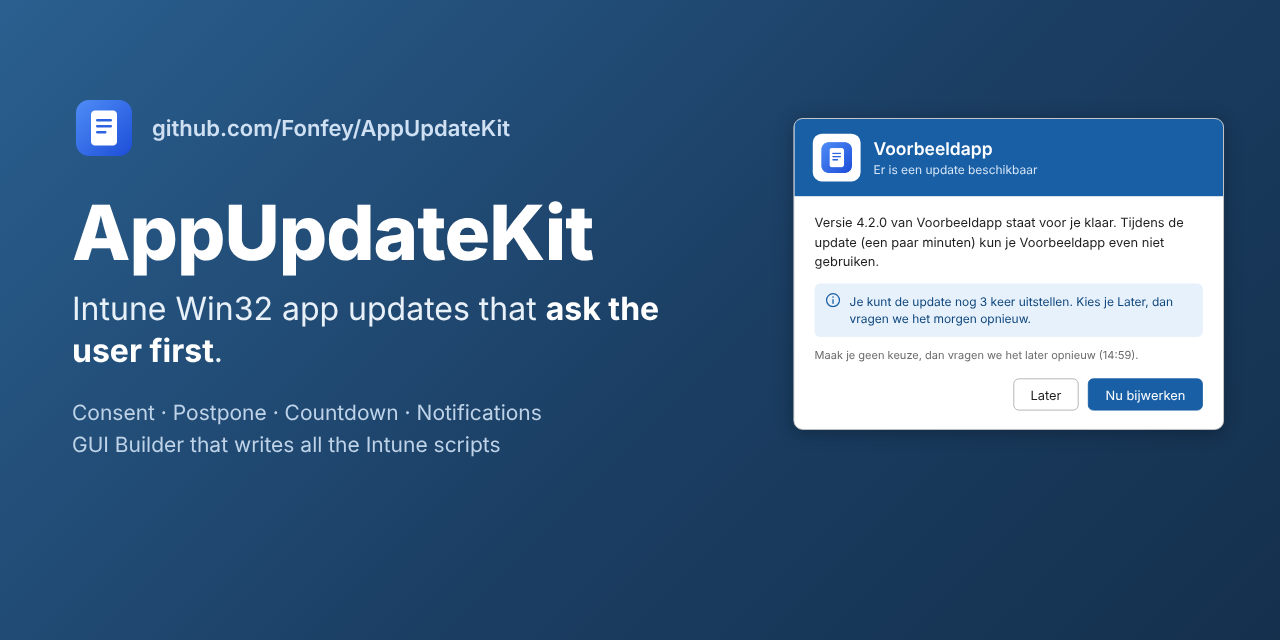
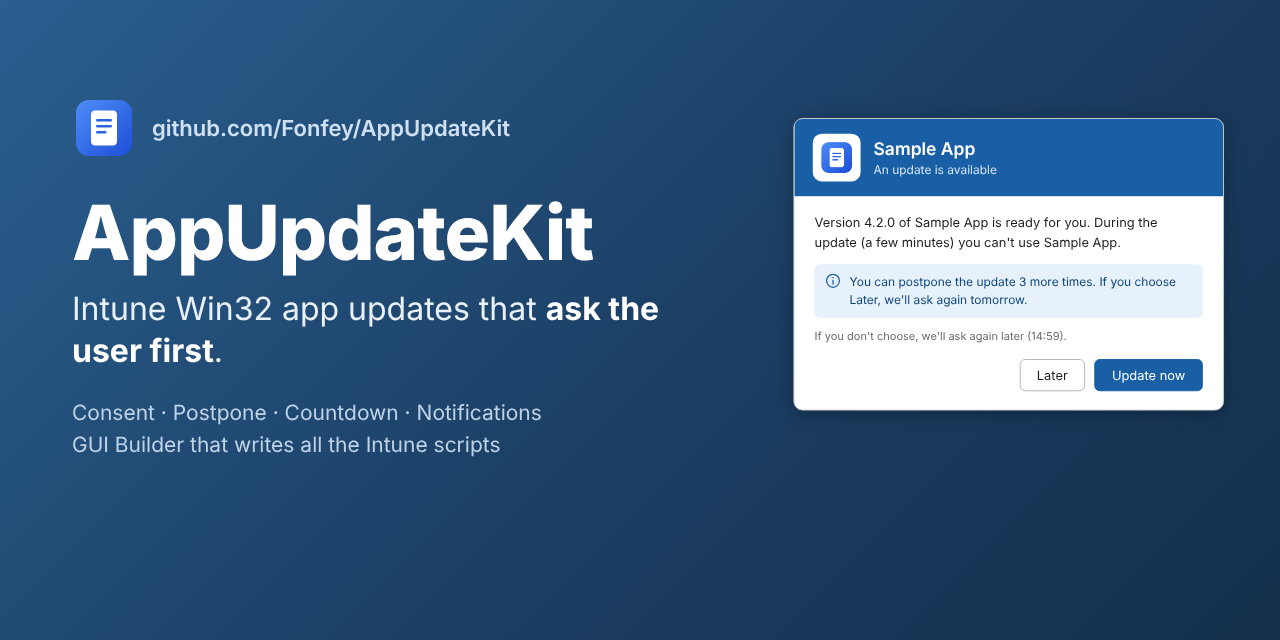
Demo en social preview in het Engels; Nederlandse demo als docs/images/demo-nl.gif
Claude-Session: https://claude.ai/code/session_01NLA91rsBwQrHoL8jTSsHah

Changed region(s): [[0.5938, 0.3438, 0.9688, 0.6875], [0.6875, 0.2188, 0.8125, 0.2812]]

diff --git a/README.md b/README.md
@@ -2,7 +2,7 @@
 
 **Intune Win32 app updates that ask the user first.** You get a consent popup, a postpone option, a countdown, progress and result notifications, and a restart prompt with a deadline. A GUI Builder writes the install, uninstall, detection and requirement scripts for you.
 
-> 🇳🇱 The Builder, the popups and the full manual ([LEESMIJ.md](LEESMIJ.md)) are in Dutch. Every text the user sees can be edited, so the popups can be in any language.
+> 🇳🇱 The Builder, the popups and the full manual ([LEESMIJ.md](LEESMIJ.md)) are in Dutch. Every text the user sees can be edited, so the popups can be in any language: the demo below uses English texts.
 >
 > 📖 Walkthrough with screenshots (in Dutch): [AppUpdateKit: app-updates via Intune met een nette popup](https://fonferek.cloud/blog/appupdatekit-app-updates-met-popup-in-intune/)
 
